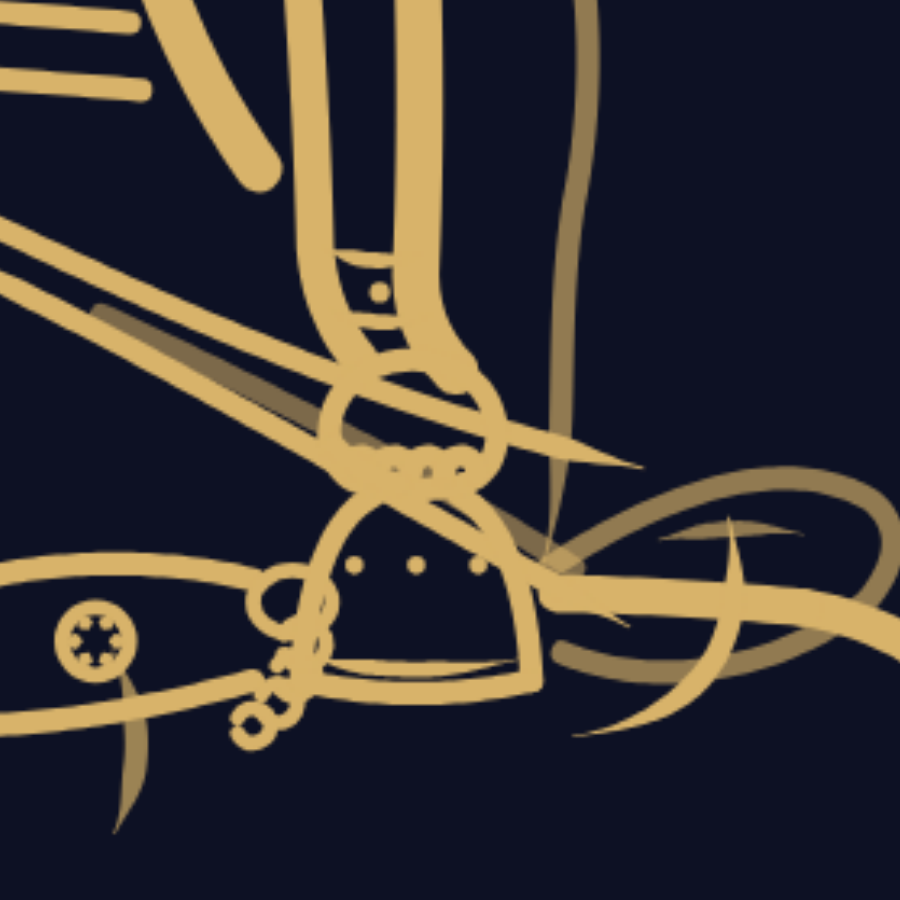
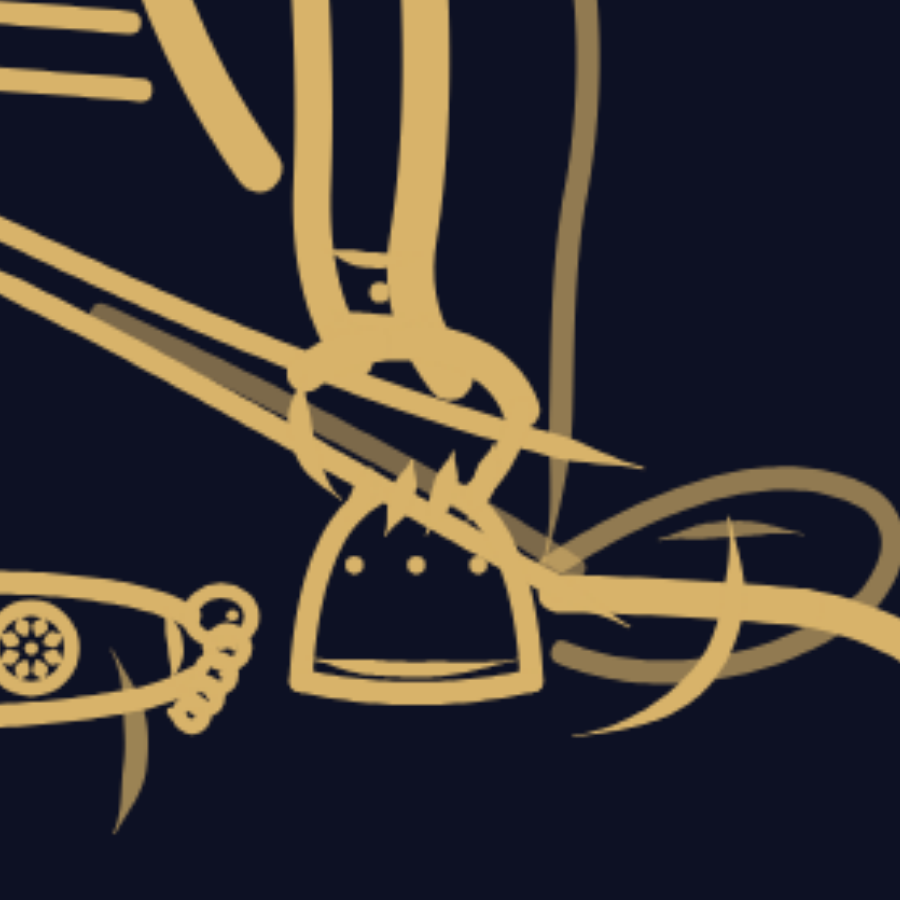
逐指之手、依經之足：畫其可見之律立
主人囑手印指節骨相肉相之學——並行二事：
——執杵手重寫三稿而得其法：**線描畫其可見**（四指裹軸乃隱，
所見者掌背之丘、指根之脊、軸下微露之四梢、橫過之拇指——解剖
之用在知其隱而不畫其隱，文藝復興素描家同此）；執鈴手自上覆，
四指自脊而降各一筆出鋒；兩手依經放大（手長一搩之比）；
——仰足入部件（足底一搩之比：踵寬心寬根寬4:5:6，千輻輪居心
轂輻輞俱、五趾逐節逐甲、足趺高滿），足位西移讓鈴；
——垂臂入腕作 S（飛天之柔）、胸廓下緣淡痕（體之具體）；
——Codex 審出二 bug 皆修（掌背右緣漏 M 未畫、趾節線二次縮放）。
手印全庫（十二合掌六種拳諸印）候考據已到，下一 session 開鑄。

diff --git a/src/bujian/shou.ts b/src/bujian/shou.ts
@@ -1,10 +1,11 @@
 // ─────────────────────────────────────────────────────────────────────────────
-// 部件 · 手（握拳之二式）——逐印逐指之地（造像標準 9.3 候補之首）
+// 部件 · 手——逐印逐指之地（造像標準 9.3；繁筆有所專施之首）
 //
-// 出典：儀軌「印法」字段逐指之述；拳形參 center-k 智拳印之錘鍊
-// （拳背向前：閉郭・指根之脊・指縫・拇指）與 Met 44845 図樣持物手。
-// 二式：握拳橫（橫執杵軸，拳背向前）・握拳覆（自上覆執柄，如執鈴）。
-// 律：骨線立拳郭，衣線走指節；位置隨尊之骨。皆親筆。
+// 出典：儀軌「印法」字段逐指之述；手之量度：掌縱七指廣五指、中指五指、
+// 巨指四指兩節（T1419 p.0943c10–16）；指形取飛天之柔（敦煌肢體語言：
+// 指節有律而梢自揚）。
+// 四式：握拳橫・握拳覆（簡拳，候他尊）；執杵手・執鈴手（逐指，2026-07-05）。
+// 律：骨線立掌郭，衣線走指，細線點甲；位置隨尊之骨。皆親筆。
 // ─────────────────────────────────────────────────────────────────────────────
 import type { 筆具 } from '../bi.js';
 import { 運筆 } from '../bi.js';
@@ -50,5 +51,73 @@ export function 握拳覆(bi: 筆具, x: number, z: number, 比 = 1, 輕 = false
       bi.A(X(fx), Z(1.05), 0.34 * 比, Math.PI * 1.05, Math.PI * 0.05);
     // 拇指：側抱柄
     M(X(-1.6), Z(0.5)); Qk(X(-1.0), Z(1.15), X(-0.25), Z(1.3)); S();
+  });
+}
+
+// 執杵手：右手橫執杵軸（軸傾 θ），拳背向觀者——四指裹軸逐見其節，
+// 拇指反扣軸下，指梢與拇指尖相就（飛天之柔：指帶微弧不僵直）
+export function 執杵手(bi: 筆具, x: number, z: number, θ = 0, 比 = 1): void {
+  const { M, Qk, C, S, 骨, 衣, 細, 逸 } = 運筆(bi);
+  const cos = Math.cos(θ), sin = Math.sin(θ);
+  const P = (a: number, b: number): [number, number] =>
+    [x + (a * cos - b * sin) * 比, z + (a * sin + b * cos) * 比];
+  const 至M = (a: number, b: number) => { const [px, pz] = P(a, b); M(px, pz); };
+  const 至Q = (ca: number, cb: number, a: number, b: number) => {
+    const [cx, cz] = P(ca, cb), [px, pz] = P(a, b); Qk(cx, cz, px, pz);
+  };
+  const 至C = (c1a: number, c1b: number, c2a: number, c2b: number, a: number, b: number) => {
+    const [x1, z1] = P(c1a, c1b), [x2, z2] = P(c2a, c2b), [px, pz] = P(a, b);
+    C(x1, z1, x2, z2, px, pz);
+  };
+  // 掌背：自腕至指根之脊（骨線立形）
+  骨(() => {
+    至M(-2.75, -0.85); 至Q(-2.0, -1.55, -1.15, -1.62); S();   // 腕上緣→指根脊起
+    至M(-2.8, 0.35); 至Q(-2.55, 0.9, -2.15, 1.05); S();       // 腕下緣→拇指根
+  });
+  衣(() => {
+    // 線描畫其可見：四指裹於軸後乃隱，所見者掌背之丘、指根之脊、
+    // 軸下微露之四梢、橫過之拇指——解剖知其隱而不畫其隱
+    // 指根之脊：橫貫掌背前緣
+    至M(-1.15, -1.62); 至Q(0.15, -1.85, 1.42, -1.55); S();
+    // 掌背右緣：脊末收向軸
+    至M(1.42, -1.55); 至Q(1.62, -1.1, 1.55, -0.55); S();
+    // 四梢：軸下微露（各一小弧，梢向掌心回）
+    逸(() => {
+      for (const t of [0, 1, 2, 3]) {
+        const a0 = 1.15 - t * 0.62;
+        至M(a0 + 0.22, 0.72); 至Q(a0 + 0.1, 1.18 - t * 0.03, a0 - 0.22, 1.28 - t * 0.05); S();
+      }
+      // 拇指：自根沿軸下橫過，與食指梢相就
+      至M(-2.15, 1.05); 至C(-1.45, 1.52, -0.6, 1.6, 0.05, 1.34); S();
+    });
+    // 腕節一線
+    細(() => { 至M(-2.95, -0.5); 至Q(-3.15, 0.0, -3.0, 0.5); S(); });
+  });
+}
+
+// 執鈴手：左手自上覆執柄——掌背向上，四指自脊而降各見其節，拇指內傍
+export function 執鈴手(bi: 筆具, x: number, z: number, 比 = 1): void {
+  const { M, Qk, C, S, 骨, 衣, 細, 逸 } = 運筆(bi);
+  const X = (dx: number) => x + dx * 比, Z = (dz: number) => z + dz * 比;
+  // 掌背之丘（骨線）：自腕向前隆起
+  骨(() => {
+    M(X(-0.5), Z(-1.35)); C(X(0.6), Z(-1.5), X(1.5), Z(-1.1), X(1.75), Z(-0.35)); S();
+    M(X(-1.5), Z(-0.9)); Qk(X(-1.05), Z(-1.25), X(-0.5), Z(-1.35)); S();
+  });
+  衣(() => {
+    // 指根之脊
+    M(X(1.75), Z(-0.35)); Qk(X(1.55), Z(0.45), X(1.05), Z(0.9)); S();
+    // 四指自脊而降各一筆，弧向柄心，梢出鋒（甲節候大圖）
+    逸(() => {
+      for (const t of [0, 1, 2, 3]) {
+        const a0 = 1.35 - t * 0.62, 長 = 1 - Math.abs(t - 1.2) * 0.07;
+        M(X(a0), Z(0.15 + t * 0.12));
+        Qk(X(a0 - 0.14), Z(0.9 * 長 + t * 0.1), X(a0 - 0.42), Z(1.48 * 長 + t * 0.08)); S();
+      }
+      // 拇指：內傍柄，一弧而抵
+      M(X(-1.5), Z(-0.9)); C(X(-1.75), Z(-0.2), X(-1.5), Z(0.6), X(-0.95), Z(1.0)); S();
+    });
+    // 腕節
+    細(() => { M(X(-1.3), Z(-1.5)); Qk(X(-0.7), Z(-1.75), X(-0.1), Z(-1.7)); S(); });
   });
 }

diff --git a/src/bujian/zu.ts b/src/bujian/zu.ts
@@ -1,0 +1,52 @@
+// ─────────────────────────────────────────────────────────────────────────────
+// 部件 · 足（仰足）——趺坐所現之足心（繁筆有所專施之二）
+//
+// 出典：足之量度「足底竪一搩（12指）、厚二指、四指俱三節」「生指根處寬六指、
+// 脚心中寬五指、踵底寬四指」「足踵縱四指」（T1419 p.0944c，親驗本地經文）；
+// 千輻輪相（相好：坐像足心向上時施，居掌心）；足趺高滿相。
+// 坐像前視之仰足有縮短，取可見長約九指半而比例從經（踵寬：心寬：根寬＝4:5:6）。
+// 律：衣線立足郭，細線走趾點輪；骨相圓滿——踵圓趾腴，弧不露稜。親筆。
+// ─────────────────────────────────────────────────────────────────────────────
+import type { 筆具 } from '../bi.js';
+import { 運筆 } from '../bi.js';
+
+// 仰足：踵心 (x,z)，趾向畫面右；長＝踵端至趾端（默認 9.5 指）
+export function 仰足(bi: 筆具, x: number, z: number, 長 = 9.5): void {
+  const { M, L, Qk, C, S, 衣, 細 } = 運筆(bi);
+  const k = 長 / 9.5;
+  const X = (dx: number) => x + dx * k, Z = (dz: number) => z + dz * k;
+  衣(() => {
+    // 踵：圓滿之踵（縱四指之比），一弧成瘤
+    bi.A(X(0), Z(0), 1.5 * k, Math.PI * 0.28, Math.PI * 1.82);
+    // 足底上緣（近趾側微昇——足趺高滿）：踵→弓→蹠丘→趾根
+    M(X(-0.15), Z(-1.42)); C(X(2.2), Z(-1.75), X(4.4), Z(-1.7), X(6.2), Z(-1.35));
+    Qk(X(7.1), Z(-1.15), X(7.6), Z(-0.85)); S();
+    // 足底下緣：踵→心之寬→趾根之收
+    M(X(0.2), Z(1.45)); C(X(2.4), Z(1.6), X(4.8), Z(1.45), X(6.6), Z(1.05));
+    Qk(X(7.3), Z(0.85), X(7.7), Z(0.6)); S();
+    // 蹠丘之界：趾根一弧（掌與趾之分）
+    細(() => { M(X(7.0), Z(-1.0)); Qk(X(7.5), Z(-0.1), X(7.15), Z(0.75)); S(); });
+    細(() => {
+      // 五趾：拇趾腴而圓（惟二節），餘四趾以次而斂、各見一節一甲
+      bi.E(X(8.35), Z(-0.85), 0.72 * k, 0.6 * k);
+      bi.dot(X(8.62), Z(-0.88), 0.14 * k);                       // 拇甲
+      for (const [i, dz] of [-0.12, 0.5, 1.02, 1.44].entries()) {
+        const 基r = 0.4 - i * 0.035;                              // 未縮之半徑（Z 內自乘 k）
+        bi.A(X(8.5 - i * 0.28), Z(dz), 基r * k, Math.PI * 1.1, Math.PI * 0.9);
+        bi.dot(X(8.66 - i * 0.28), Z(dz), 0.09 * k);             // 甲
+        M(X(8.14 - i * 0.28), Z(dz - 基r * 0.5));                // 節線一道
+        L(X(8.02 - i * 0.28), Z(dz + 基r * 0.4)); S();
+      }
+      // 千輻輪：足心之輪（轂・輻八・輞）
+      bi.A(X(3.9), Z(-0.1), 0.95 * k);
+      bi.dot(X(3.9), Z(-0.1), 0.16 * k);
+      for (let i = 0; i < 8; i++) {
+        const a = (Math.PI * 2 * i) / 8 + Math.PI / 8;
+        M(X(3.9 + Math.cos(a) * 0.3), Z(-0.1 + Math.sin(a) * 0.3));
+        L(X(3.9 + Math.cos(a) * 0.82), Z(-0.1 + Math.sin(a) * 0.82)); S();
+      }
+      // 踵下一折（足與股之際）
+      bi.dim(0.7, () => { M(X(-0.9), Z(1.35)); Qk(X(-1.3), Z(0.5), X(-1.15), Z(-0.4)); S(); });
+    });
+  });
+}

diff --git a/src/zun/fugen-k.ts b/src/zun/fugen-k.ts
@@ -16,7 +16,7 @@ import type { 面 } from '../yigui.js';
 import { 節之, 沿, 肢面, 輪廓, 環褶, type 肢 } from '../gujia.js';
 import {
   月輪, 頭光, 蓮華座, 菩薩開臉, 點睛, 垂埵耳, 頸三道, 寶髻, 垂髮,
-  頸瓔, 胸瓔, 臂釧, 腕釧, 握拳橫, 握拳覆, 五鈷杵, 五鈷鈴,
+  頸瓔, 胸瓔, 臂釧, 腕釧, 執杵手, 執鈴手, 五鈷杵, 五鈷鈴, 仰足,
 } from '../bujian/index.js';
 
 export const 金剛薩埵: (bi: 筆具, mian: 面) => void = (bi) => {
@@ -113,17 +113,21 @@ export const 金剛薩埵: (bi: 筆具, mian: 面) => void = (bi) => {
     陰(() => {
       M(13.4, 28.6); C(14.4, 30.2, 14.75, 32.4, 14.65, 35.2);
       C(14.55, 38.6, 15.1, 43.0, 15.3, 46.5); S();
-      M(15.3, 46.5); Qk(15.55, 51.0, 15.4, 54.6); Qk(15.3, 55.8, 16.1, 56.6); S();
+      M(15.3, 46.5); C(15.6, 49.5, 15.7, 52.0, 15.35, 54.2); Qk(15.1, 55.6, 16.0, 56.7); S();
     });
-    M(12.6, 42.4); C(13.0, 45.0, 13.5, 50.0, 13.6, 54.4); Qk(13.7, 55.6, 14.4, 56.4); S();
+    M(12.6, 42.4); C(13.1, 45.0, 13.7, 49.5, 13.55, 53.2); Qk(13.45, 55.2, 14.3, 56.4); S();
     // 軀幹之側：腋→腰之收→胯之張（左陽右陰）
     陽(() => { M(-10.9, 32.4); C(-10.1, 36.5, -9.7, 40.5, -10.1, 46.5); Qk(-10.5, 50.0, -12.6, 53.0); S(); });
     陰(() => { M(10.9, 32.4); C(10.1, 36.5, 9.7, 40.5, 10.1, 46.5); Qk(10.5, 50.0, 12.6, 53.0); S(); });
   });
-  // 胸腹之相：鎖骨微提、臍
+  // 胸腹之相：鎖骨微提、胸廓下緣淡痕（體之具體）、臍
   細(() => {
     M(-2.4, 25.7); Qk(-6.0, 26.3, -9.4, 25.9); S();
     M(2.4, 25.7); Qk(6.0, 26.3, 9.4, 25.9); S();
+    bi.dim(0.5, () => {
+      M(-5.6, 37.6); Qk(-3.9, 38.7, -2.0, 38.95); S();
+      M(5.6, 37.6); Qk(3.9, 38.7, 2.0, 38.95); S();
+    });
     M(0, 47.5); L(0, 48.4); S(); A(0, 48.0, 0.4, Math.PI * 0.25, Math.PI * 0.75);
   });
 
@@ -160,26 +164,9 @@ export const 金剛薩埵: (bi: 筆具, mian: 面) => void = (bi) => {
     });
   });
 
-  // ── 仰足：右足安左股，足心具輪（趾輪皆細）────────────────────────────────
-  衣(() => {
-    M(4.6, 59.9); Qk(5.3, 60.0, 5.8, 60.6); S();
-    A(6.5, 61.8, 1.2, Math.PI * 0.3, Math.PI * 1.85);
-    M(6.3, 60.7); C(8.0, 60.0, 10.4, 59.8, 12.5, 60.3); S();
-    M(7.2, 62.9); C(9.2, 62.9, 11.0, 62.5, 12.5, 62.1); S();
-    細(() => {
-      E(13.2, 60.7, 0.7, 0.56);
-      A(13.4, 61.45, 0.4, Math.PI * 1.15, Math.PI * 0.85);
-      A(13.25, 62.0, 0.37, Math.PI * 1.15, Math.PI * 0.85);
-      A(12.95, 62.5, 0.34, Math.PI * 1.15, Math.PI * 0.85);
-      A(12.5, 62.9, 0.31, Math.PI * 1.15, Math.PI * 0.85);
-      A(9.7, 61.4, 0.6);
-      for (let i = 0; i < 6; i++) {
-        const a = (Math.PI * 2 * i) / 6;
-        M(9.7 + Math.cos(a) * 0.24, 61.4 + Math.sin(a) * 0.24);
-        L(9.7 + Math.cos(a) * 0.52, 61.4 + Math.sin(a) * 0.52); S();
-      }
-    });
-  });
+  // ── 仰足（部件）：右足安左股，足底一搩之比，千輻輪居心 ───────────────────
+  衣(() => { M(4.4, 59.9); Qk(5.0, 60.05, 5.4, 60.7); S(); });   // 踝橋
+  仰足(bi, 5.6, 61.6, 7.2);
 
   // ── 帶：條帛自尊左肩斜貫，沒於執杵之拳後 ────────────────────────────────
   dim(0.75, () => 衣(() => 逸(() => {
@@ -192,10 +179,9 @@ export const 金剛薩埵: (bi: 筆具, mian: 面) => void = (bi) => {
 
   // ── 執杵鈴（部件）：杵鈴先落，拳覆其上 ───────────────────────────────────
   五鈷杵(bi, -1.6, 36.4, 0.2, 1.2);
-  握拳橫(bi, -1.6, 36.5, 1, true);
-  細(() => { M(-3.3, 37.3); L(-4.3, 37.6); S(); M(-3.2, 35.8); L(-4.2, 35.6); S(); });
+  執杵手(bi, -1.5, 36.45, 0.2, 1.3);
   五鈷鈴(bi, 15.4, 60.6, 1, false);
-  握拳覆(bi, 15.3, 57.5, 0.85, true);
+  執鈴手(bi, 15.2, 57.7, 1.18);
 
   // ── 嚴：頸瓔胸瓔臂釧腕釧（位隨骨）────────────────────────────────────────
   頸瓔(bi);

diff --git a/src/bujian/index.ts b/src/bujian/index.ts
@@ -6,7 +6,8 @@
 // 律：部件皆親筆（造像不假手）；部件亦須出典（各檔頭注所本）；
 // 皆執 運筆（三等筆，bi.ts）而線階遂一；位置參數隨尊之骨。
 // 第一波（自 center-k 析出）：光暈・蓮座・開臉・髮・嚴。
-// 第二波（金剛薩埵起）：手（握拳橫・握拳覆）・持物（五鈷杵・五鈷鈴）。
+// 第二波（金剛薩埵起）：手（握拳橫・握拳覆→執杵手・執鈴手逐指）・
+// 持物（五鈷杵・五鈷鈴）・仰足（足底一搩之比、千輻輪居心）。
 // 候補：四基面之參、衣紋單元、火焰光背、獸座、四攝器仗。
 // ─────────────────────────────────────────────────────────────────────────────
 export { 月輪, 頭光 } from './guang.js';
@@ -14,5 +15,6 @@ export { 蓮華座 } from './zuo.js';
 export { 菩薩開臉, 點睛, 垂埵耳, 頸三道 } from './lian.js';
 export { 寶髻, 垂髮 } from './fa.js';
 export { 頸瓔, 胸瓔, 臂釧, 腕釧 } from './yan.js';
-export { 握拳橫, 握拳覆 } from './shou.js';
+export { 握拳橫, 握拳覆, 執杵手, 執鈴手 } from './shou.js';
+export { 仰足 } from './zu.js';
 export { 五鈷杵, 五鈷鈴 } from './chiwu.js';